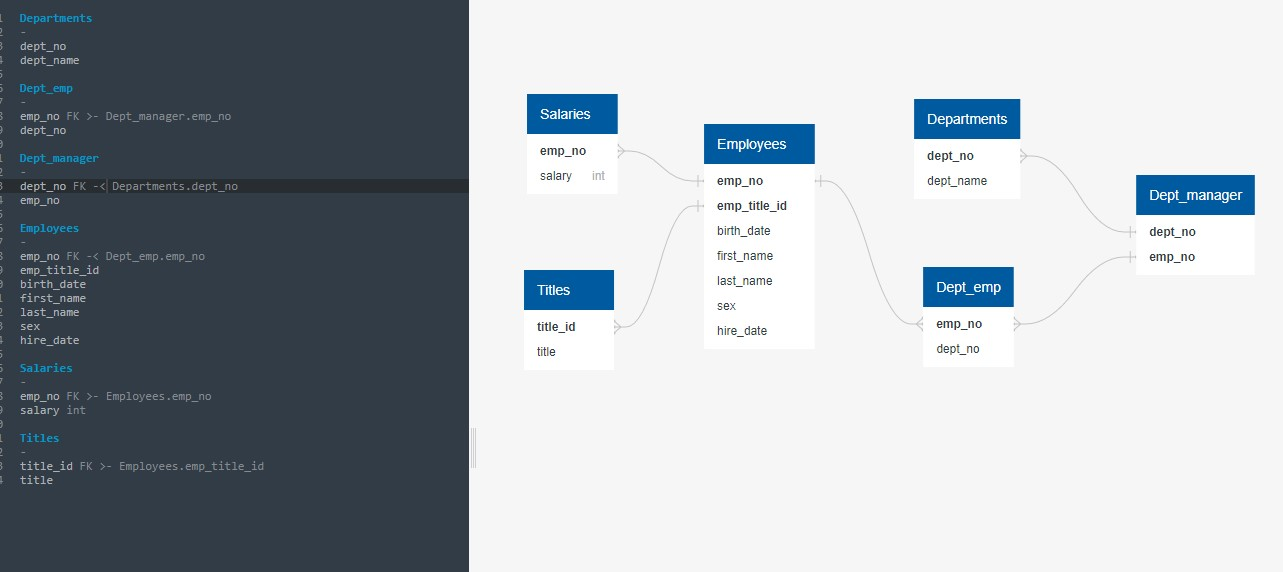
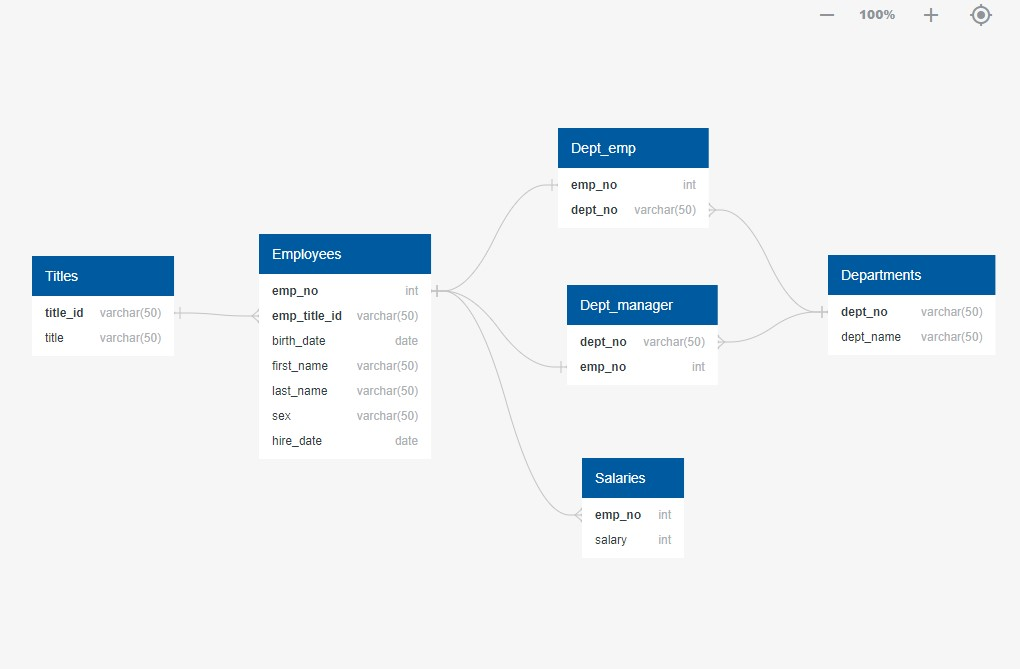
revised bonus, README, and ERD image file

diff --git a/data/README-instructions.md b/data/README-instructions.md
@@ -1,0 +1,108 @@
+# Unit 9 Homework: Employee Database
+
+## Background
+
+It’s a beautiful spring day, and it’s been two weeks since you were hired as a new data engineer at Pewlett Hackard. Your first major task is a research project on employees of the corporation from the 1980s and 1990s. All that remains of the database of employees from that period are six CSV files.
+
+In this assignment, you will design the tables to hold data in the CSVs, import the CSVs into a SQL database, and answer questions about the data. In other words, you will perform **data modeling**, **data engineering**, and **data analysis**.
+## Before You Begin
+
+1. Create a new repository for this project called `sql-challenge`. **Do not add this homework assignment to an existing repository**.
+
+2. Clone the new repository to your computer.
+
+3. Inside your local Git repository, create a directory for the SQL challenge. Use a folder name that corresponds to this assignment, like `EmployeeSQL`.
+
+4. Add your files to this folder.
+
+5. Push these changes to GitHub.
+
+## Instructions
+
+This assignment is divided into three parts: data modeling, data engineering, and data analysis. 
+
+#### Data Modeling
+
+Inspect the CSVs and sketch out an ERD of the tables. Feel free to use a tool like [http://www.quickdatabasediagrams.com](http://www.quickdatabasediagrams.com).
+
+#### Data Engineering
+
+* Use the provided information to create a table schema for each of the six CSV files. Remember to specify data types, primary keys, foreign keys, and other constraints.
+
+  * For the primary keys, verify that the column is unique. Otherwise, create a [composite key](https://en.wikipedia.org/wiki/Compound_key), which takes two primary keys to uniquely identify a row.
+
+  * Be sure to create tables in the correct order to handle foreign keys.
+
+* Import each CSV file into the corresponding SQL table. 
+
+  > **Hint:** To avoid errors, be sure to import the data in the same order that the tables were created. Also remember to account for the headers when importing.
+
+#### Data Analysis
+
+Once you have a complete database, perform these steps:
+
+1. List the following details of each employee: employee number, last name, first name, sex, and salary.
+
+2. List first name, last name, and hire date for employees who were hired in 1986.
+
+3. List the manager of each department with the following information: department number, department name, the manager's employee number, last name, first name.
+
+4. List the department of each employee with the following information: employee number, last name, first name, and department name.
+
+5. List first name, last name, and sex for employees whose first name is "Hercules" and last names begin with "B."
+
+6. List all employees in the Sales department, including their employee number, last name, first name, and department name.
+
+7. List all employees in the Sales and Development departments, including their employee number, last name, first name, and department name.
+
+8. List the frequency count of employee last names (i.e., how many employees share each last name) in descending order.
+
+## Bonus (Optional)
+
+As you examine the data, you begin to suspect that the dataset is fake. Maybe your boss gave you spurious data in order to test the data engineering skills of a new employee? To confirm your hunch, you decide to create a visualization of the data to present to your boss. Follow these steps: 
+
+1. Import the SQL database into Pandas. (Yes, you could read the CSVs directly in Pandas, but you are, after all, trying to prove your technical mettle.) This step may require some research. Feel free to use the following code to get started. Be sure to make any necessary modifications for your username, password, host, port, and database name:
+
+   ```sql
+   from sqlalchemy import create_engine
+   engine = create_engine('postgresql://localhost:5432/<your_db_name>')
+   connection = engine.connect()
+   ```
+
+    * Consult the [SQLAlchemy documentation](https://docs.sqlalchemy.org/en/latest/core/engines.html#postgresql) for more information.
+
+    * If you’re using a password, do not upload your password to your GitHub repository. Review this [video](https://www.youtube.com/watch?v=2uaTPmNvH0I) and the [GitHub website](https://help.github.com/en/github/using-git/ignoring-files) for more information.
+
+2. Create a histogram to visualize the most common salary ranges for employees.
+
+3. Create a bar chart of average salary by title.
+
+
+## Submission
+
+* Create an image file of your ERD.
+
+* Create a `.sql` file of your table schemata.
+
+* Create a `.sql` file of your queries.
+
+* (Optional) Create a Jupyter notebook of the bonus analysis.
+
+* Create and upload a repository with the above files to GitHub and post a link on BootCamp Spot.
+
+* Ensure your repository has regular commits and a thorough README.md file
+
+## Rubric
+
+[Unit 9 Homework Rubric](https://docs.google.com/document/d/1OksnTYNCT0v0E-VkhIMJ9-iG0_oXNwCZAJlKV0aVMKQ/edit?usp=sharing)
+
+- - -
+
+## References
+
+Mockaroo, LLC. (2021). Realistic Data Generator. [https://www.mockaroo.com/](https://www.mockaroo.com/)
+
+- - -
+
+© 2022 Trilogy Education Services, a 2U, Inc. brand. All Rights Reserved.
+

diff --git a/README.md b/README.md
@@ -1,2 +1,10 @@
 # SQL_challenge
 Homework for Module 10 of Data Analytics using SQLAlchemy for Anna Barbera
+
+The SQL schemata were made using pgAdmin4.
+
+In order to access the bonus notebook properly, it will be essential to create a view using view_schema_for_jupyter_notebook in pgAdmin4 as the notebook accesses it directly instead of the tables.  
+
+Also in the bonus notebook, you will need to fill in your own username information and, when prompted by getpass in the second cell of the notebook, your own password. 
+
+Thank you.
